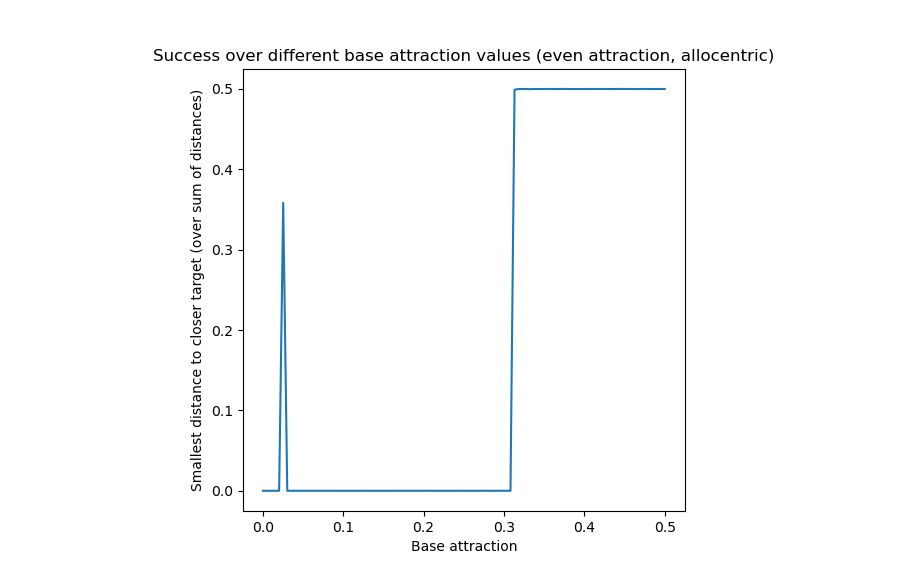
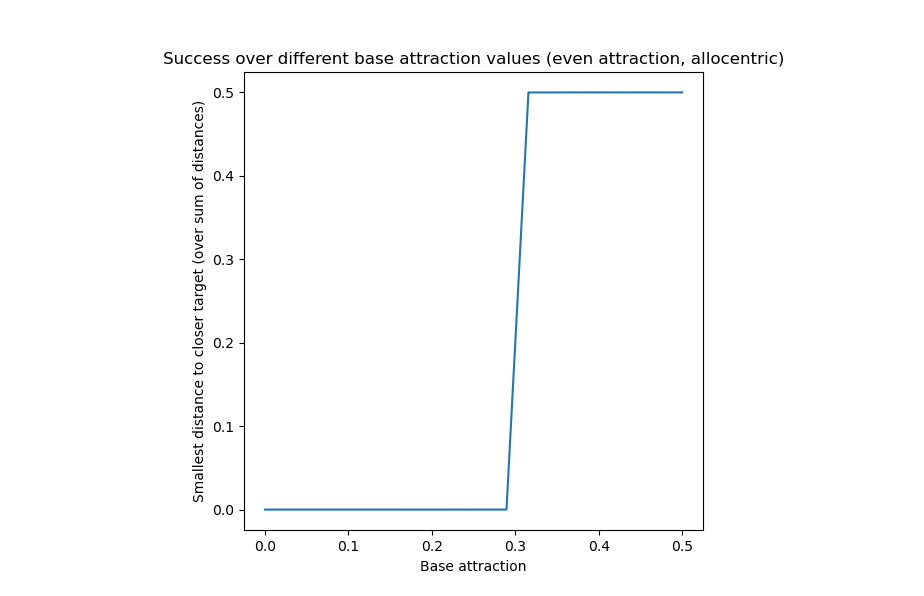
rest of the hb plots

Changed region(s): [[0.1547, 0.0889, 0.8663, 0.9774]]

diff --git a/simulations.py b/simulations.py
@@ -82,7 +82,7 @@ for i in range(N):
 allocentricFlag = [1]
 
 # attraction vector, first are attraction for targets, then agents
-h0s = [[0.45,0.45]]
+h0s = [[0.45,0.46]]
 
 h_b = np.linspace(0,0.5,num=20)
 
@@ -122,7 +122,7 @@ for orientation in range(len(allocentricFlag)):
                         headings, xPos, yPos, targetsx, targetsy = simulate_ringattractor.simulate_ring_attractor(N,L,T,ntargets,nagents,allocentricFlag[orientation],periodicflag,rEgo,rEgoTarget,Egonumber,
                                     distf,adistf,J,beta[b],h0,h_b[hb],dt,v0,v0t,sigma[s],hColl,rColl,
                                     initialx,initialy,initialxt,initialyt,False,False)
-                        success_measure = simulation_metrics.get_min_distance(xPos, yPos, targetsx, targetsy, False)
+                        success_measure = simulation_metrics.get_min_distance(xPos, yPos, targetsx, targetsy, True, 1)
                         min_distance.append(success_measure)
                     mean_distance.append(np.mean(min_distance))
 
@@ -130,7 +130,7 @@ for orientation in range(len(allocentricFlag)):
 # plot x axis as param of interest, plot y axis as success measure
 plt.figure(1)
 plt.plot(h_b, mean_distance)
-plt.title("Success over different base attraction values (even attraction, allocentric)")
+plt.title("Success over different base attraction values (uneven attraction, allocentric)")
 plt.xlabel("Base attraction")
-plt.ylabel("Smallest distance to closer target (over sum of distances)")
+plt.ylabel("Smallest distance to better target (over sum of distances)")
 plt.show()
